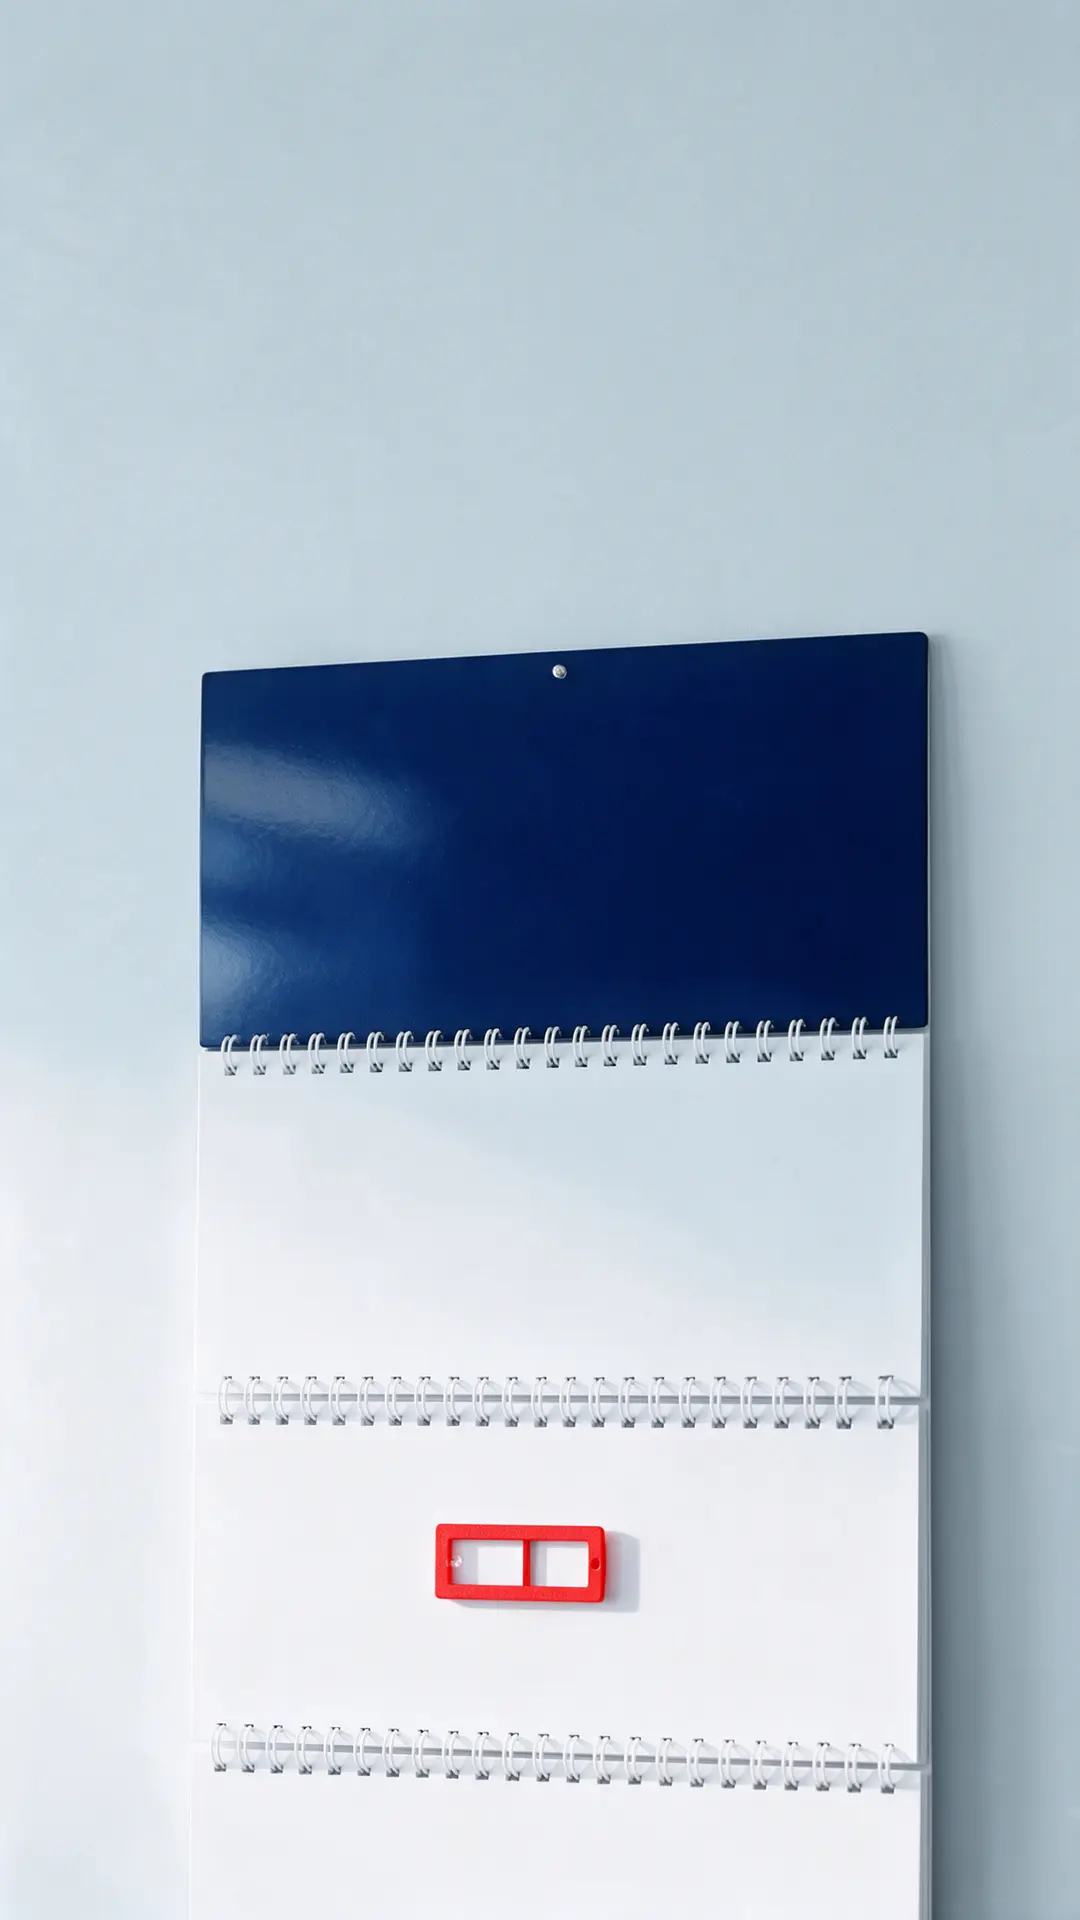
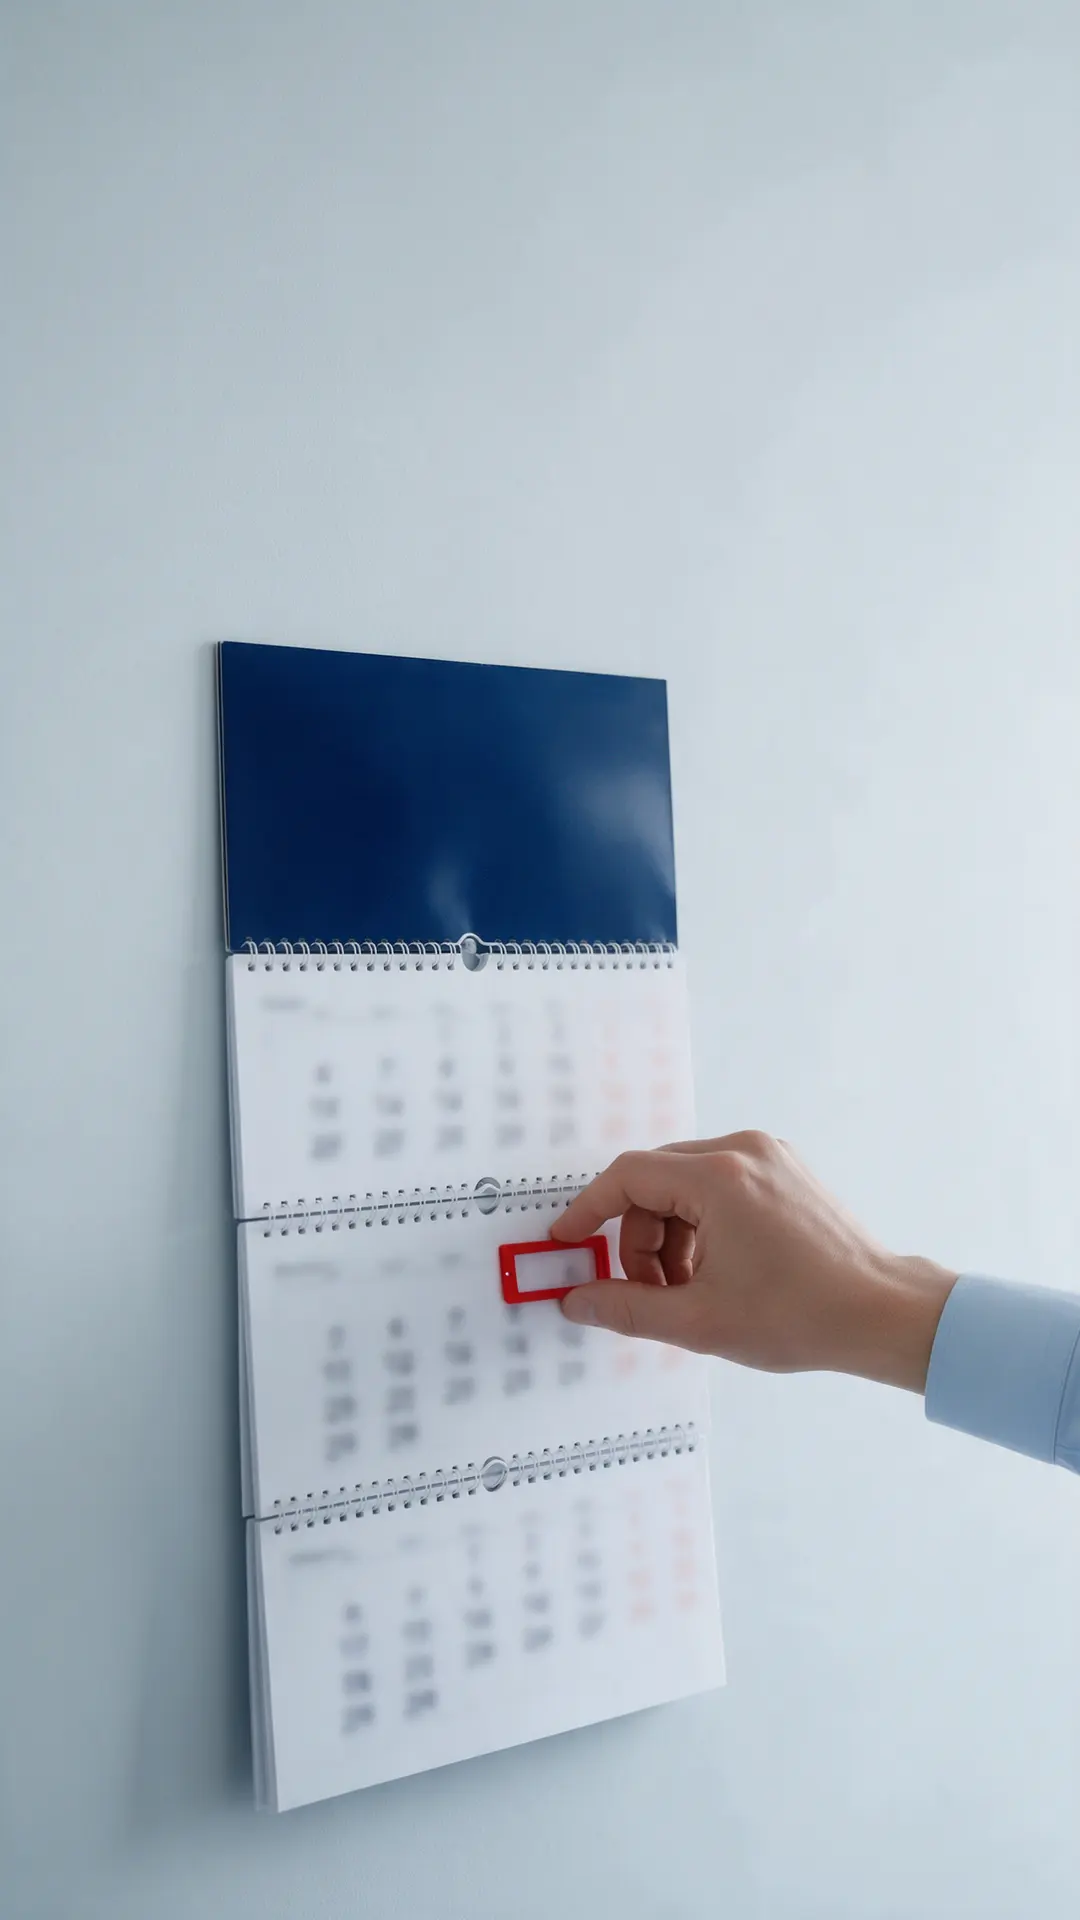
Правки по ответу Юлии: синяя шапка, цены таблицей, WhatsApp, пикколо, фото с рукой

diff --git a/index.html b/index.html
@@ -46,24 +46,25 @@
 
   /* ---- шапка ---- */
   .bar { position: fixed; inset: 0 0 auto 0; z-index: 30; display: flex; align-items: center; gap: clamp(1rem, 3vw, 2.5rem);
-    padding: var(--v-3) var(--v-gutter); background: rgb(232 235 238 / .72); -webkit-backdrop-filter: blur(10px); backdrop-filter: blur(10px); transition: background-color .3s var(--v-ease-out), box-shadow .3s var(--v-ease-out); }
-  .bar.is-scrolled { background: rgb(232 235 238 / .92); -webkit-backdrop-filter: blur(12px); backdrop-filter: blur(12px); box-shadow: 0 1px 0 var(--v-hair); }
+    padding: var(--v-3) var(--v-gutter); background: var(--navy); color: #eef1f7; transition: background-color .3s var(--v-ease-out), box-shadow .3s var(--v-ease-out); }
+  .bar.is-scrolled { background: var(--navy); box-shadow: 0 6px 20px rgb(24 35 58 / .25); }
   .bar__logo { font-family: var(--v-font-display); font-weight: 800; font-size: 1.7rem; line-height: 1; letter-spacing: .01em; text-decoration: none; display: flex; align-items: center; gap: .5rem; }
-  .bar__logo i { width: .85rem; height: .66rem; border: 2px solid var(--v-accent); display: inline-block; }
-  .bar__contacts { display: grid; font-size: var(--v-t-xs); line-height: 1.35; color: var(--v-ink-soft); }
+  .bar__logo i { width: .85rem; height: .66rem; border: 2px solid #ff5a6e; display: inline-block; }
+  .bar__contacts { display: grid; font-size: var(--v-t-xs); line-height: 1.35; color: #b9c2d3; }
   .bar__contacts a { text-decoration: none; }
   .bar__nav { margin-left: auto; display: flex; align-items: center; gap: clamp(.8rem, 2vw, 1.8rem); font-size: var(--v-t-sm); font-weight: 500; }
   .bar__nav > a:not(.v-btn) { text-decoration: none; }
   .bar .v-btn { padding: .7em 1.25em; }
-  @media (hover: hover) and (pointer: fine) { .bar__nav > a:not(.v-btn):hover { color: var(--v-accent); } .v-btn:hover { background: #b00d27; } }
+  @media (hover: hover) and (pointer: fine) { .bar__nav > a:not(.v-btn):hover { color: #ffb3bf; } .v-btn:hover { background: #b00d27; } }
 
   /* ---- 1. первый экран ---- */
   .hero [data-v-stage] { background: #dfe3e7; }
   .hero .v-fill picture { position: absolute; inset: 0; }
-  .hero .v-fill img { width: 100%; height: 100%; object-fit: cover; object-position: 70% 50%; }
+  .hero .v-fill { left: 36%; -webkit-mask-image: linear-gradient(to right, transparent 0, #000 24%); mask-image: linear-gradient(to right, transparent 0, #000 24%); }
+  .hero .v-fill img { width: 100%; height: 100%; object-fit: cover; object-position: 42% 50%; }
   .hero__scrim { position: absolute; inset: 0; z-index: 2; pointer-events: none;
     background: radial-gradient(90% 100% at 0% 50%, rgb(236 239 242 / .85) 0%, rgb(236 239 242 / .45) 45%, transparent 72%); }
-  .hero__copy { position: absolute; z-index: 3; left: var(--v-gutter); top: clamp(6rem, 15vh, 9rem); width: min(52rem, 58vw); }
+  .hero__copy { position: absolute; z-index: 3; left: var(--v-gutter); top: clamp(7rem, 17vh, 10rem); width: min(52rem, 58vw); }
   .hero__copy .v-stack { gap: var(--v-5); }
   .hero h1 { font-size: clamp(3.2rem, 1.6rem + 4.2vw, 6.4rem); line-height: .92; }
   .hero__spec { font-size: var(--v-t-base); color: var(--v-ink-soft); max-width: 36ch; }
@@ -142,6 +143,14 @@
   .price h3 { font-family: var(--v-font-display); font-weight: 700; font-size: var(--v-t-2xl); line-height: .95; }
   .price p { color: var(--v-ink-soft); }
   .price__val { font-weight: 600; white-space: nowrap; }
+  .ptable { width: 100%; max-width: 46rem; border-collapse: collapse; margin-top: var(--v-6); }
+  .ptable caption { text-align: left; color: var(--v-ink-soft); font-size: var(--v-t-sm); padding-bottom: var(--v-4); }
+  .ptable th { text-align: left; font-weight: 500; font-size: var(--v-t-sm); color: var(--v-ink-soft); padding: var(--v-3) 0; border-bottom: 1px solid var(--v-hair-strong); }
+  .ptable td { padding: var(--v-4) 0; border-bottom: 1px solid var(--v-hair-strong); font-family: var(--v-font-display); font-weight: 700; font-size: var(--v-t-2xl); line-height: 1; }
+  .ptable td + td, .ptable th + th { text-align: right; }
+  .ptable td + td { color: var(--v-accent); }
+  .ptable td { white-space: nowrap; }
+  .ptable td small { font-family: var(--v-font-text); font-weight: 500; font-size: var(--v-t-base); color: var(--v-ink-soft); margin-right: .25em; }
   .v-page .prices__note { margin-top: var(--v-4); color: var(--v-ink-soft); font-size: var(--v-t-sm); max-width: 60ch; }
 
   /* ---- 10. контакты ---- */
@@ -159,9 +168,9 @@
   @media (max-width: 860px) {
     .bar__nav > a:not(.v-btn) { display: none; }
     .bar__logo { font-size: 1.4rem; }
-    .hero__copy { top: 5.2rem; width: auto; right: var(--v-gutter); }
+    .hero__copy { top: 5.8rem; width: auto; right: var(--v-gutter); }
     .hero__scrim { display: none; }
-    .hero .v-fill { top: 57%; }
+    .hero .v-fill { top: 57%; left: 0; -webkit-mask-image: none; mask-image: none; }
     .hero .v-fill img { object-position: 50% 82%; }
     .hero h1 { font-size: clamp(2.8rem, 12vw, 3.8rem); }
     .hero__spec { font-size: .95rem; }
@@ -199,7 +208,7 @@
     <nav class="bar__nav" aria-label="Разделы">
       <a href="#ceny">Цены</a>
       <a href="#kontakty">Контакты</a>
-      <a class="v-btn" href="#kontakty">Рассчитать заказ</a>
+      <a class="v-btn" href="https://wa.me/79260011677?text=%D0%97%D0%B4%D1%80%D0%B0%D0%B2%D1%81%D1%82%D0%B2%D1%83%D0%B9%D1%82%D0%B5!%20%D0%A5%D0%BE%D1%87%D1%83%20%D1%80%D0%B0%D1%81%D1%81%D1%87%D0%B8%D1%82%D0%B0%D1%82%D1%8C%20%D0%BA%D0%B2%D0%B0%D1%80%D1%82%D0%B0%D0%BB%D1%8C%D0%BD%D1%8B%D0%B5%20%D0%BA%D0%B0%D0%BB%D0%B5%D0%BD%D0%B4%D0%B0%D1%80%D0%B8." target="_blank" rel="noopener">Рассчитать заказ</a>
     </nav>
   </header>
 
@@ -219,7 +228,7 @@
             <p class="demo-for"><img src="assets/zakazchik.jpg" alt="" width="40" height="40"><span>Демо для Юлии Булгаковой · по заказу «Одностраничный продающий лендинг»</span></p>
             <h1 class="v-display" data-v-kinetic="lines">Квартальные календари премиум-качества</h1>
             <p class="hero__spec"><b>Формат «Миди»:</b> постер 335×230&nbsp;мм, подложка 335×210&nbsp;мм, рекламное поле 50&nbsp;мм.</p>
-            <div><a class="v-btn" href="#kontakty" data-v-magnet="0.25" data-v-rise="0">Рассчитать заказ</a></div>
+            <div><a class="v-btn" href="https://wa.me/79260011677?text=%D0%97%D0%B4%D1%80%D0%B0%D0%B2%D1%81%D1%82%D0%B2%D1%83%D0%B9%D1%82%D0%B5!%20%D0%A5%D0%BE%D1%87%D1%83%20%D1%80%D0%B0%D1%81%D1%81%D1%87%D0%B8%D1%82%D0%B0%D1%82%D1%8C%20%D0%BA%D0%B2%D0%B0%D1%80%D1%82%D0%B0%D0%BB%D1%8C%D0%BD%D1%8B%D0%B5%20%D0%BA%D0%B0%D0%BB%D0%B5%D0%BD%D0%B4%D0%B0%D1%80%D0%B8." target="_blank" rel="noopener" data-v-magnet="0.25" data-v-rise="0">Рассчитать заказ</a></div>
           </div>
         </div>
       </div>
@@ -287,7 +296,7 @@
       <div class="v-wrap">
         <div class="opt-sec__head" data-v-in>
           <h2 class="v-display v-display--md">Пикколо</h2>
-          <p>Два цвета на выбор.</p>
+          <p>Металлическая планка-курсор вместо обычного пластикового бегунка – золотая или серебряная.</p>
         </div>
         <div class="tiles tiles--2" data-v-in data-v-stagger="90">
           <figure class="tile"><div class="tile__ph tile__ph--gold"><span>Здесь будет ваше фото</span></div><figcaption><b>Золото</b></figcaption></figure>
@@ -338,8 +347,15 @@
     <section class="prices v-section v-section--tight" id="ceny" data-v-act="flow">
       <div class="v-wrap" data-v-in data-v-stagger="80">
         <h2 class="v-display v-display--md">Цены</h2>
-        <div class="price"><h3>Миди</h3><p>Постер 335×230&nbsp;мм, подложка 335×210&nbsp;мм, рекламное поле 50&nbsp;мм</p><span class="price__val">уточнить</span></div>
-        <p class="prices__note">Цена зависит от тиража, ламинации, цвета пружины и бумаги блоков. Напишите, сколько календарей нужно, – посчитаем под ваш заказ.</p>
+        <table class="ptable">
+          <caption>Формат «Миди»: постер 335×230&nbsp;мм, подложка 335×210&nbsp;мм, рекламное поле 50&nbsp;мм</caption>
+          <thead><tr><th scope="col">Тираж</th><th scope="col">Цена за календарь</th></tr></thead>
+          <tbody>
+            <tr><td><small>от</small> 50 шт.</td><td><small>от</small> 420 ₽</td></tr>
+            <tr><td><small>от</small> 100 шт.</td><td><small>от</small> 380 ₽</td></tr>
+          </tbody>
+        </table>
+        <p class="prices__note">Точная цена зависит от ламинации, цвета пружины и бумаги блоков. Напишите, сколько календарей нужно, – посчитаем под ваш заказ.</p>
       </div>
     </section>
 
@@ -349,11 +365,11 @@
         <div class="close__panel">
           <div data-v-in>
             <h2 class="v-display v-display--lg">Рассчитаем ваш тираж</h2>
-            <p class="v-lede v-soft" style="margin-top: var(--v-4)">Напишите, сколько календарей нужно, какую ламинацию, пружину и блоки выбрали, и пришлите логотип – ответим с ценой.</p>
-            <a class="v-btn" href="mailto:goodandprint@mail.ru?subject=%D0%A0%D0%B0%D1%81%D1%87%D1%91%D1%82%20%D0%BA%D0%B2%D0%B0%D1%80%D1%82%D0%B0%D0%BB%D1%8C%D0%BD%D1%8B%D1%85%20%D0%BA%D0%B0%D0%BB%D0%B5%D0%BD%D0%B4%D0%B0%D1%80%D0%B5%D0%B9">Рассчитать заказ</a>
+            <p class="v-lede v-soft" style="margin-top: var(--v-4)">Напишите в WhatsApp, сколько календарей нужно, какую ламинацию, пружину и блоки выбрали, и пришлите логотип – ответим с ценой.</p>
+            <a class="v-btn" href="https://wa.me/79260011677?text=%D0%97%D0%B4%D1%80%D0%B0%D0%B2%D1%81%D1%82%D0%B2%D1%83%D0%B9%D1%82%D0%B5!%20%D0%A5%D0%BE%D1%87%D1%83%20%D1%80%D0%B0%D1%81%D1%81%D1%87%D0%B8%D1%82%D0%B0%D1%82%D1%8C%20%D0%BA%D0%B2%D0%B0%D1%80%D1%82%D0%B0%D0%BB%D1%8C%D0%BD%D1%8B%D0%B5%20%D0%BA%D0%B0%D0%BB%D0%B5%D0%BD%D0%B4%D0%B0%D1%80%D0%B8." target="_blank" rel="noopener">Рассчитать заказ</a>
           </div>
           <div class="close__meta" data-v-in data-v-stagger="60">
-            <span><b>Телефон</b><a href="tel:+79260011677">+7 (926) 001-16-77</a></span>
+            <span><b>Телефон и WhatsApp</b><a href="tel:+79260011677">+7 (926) 001-16-77</a></span>
             <span><b>Почта</b><a href="mailto:goodandprint@mail.ru">goodandprint@mail.ru</a></span>
             <span><b>Сайт</b><a href="https://www.goodandprint.ru" rel="noopener">www.goodandprint.ru</a></span>
           </div>
